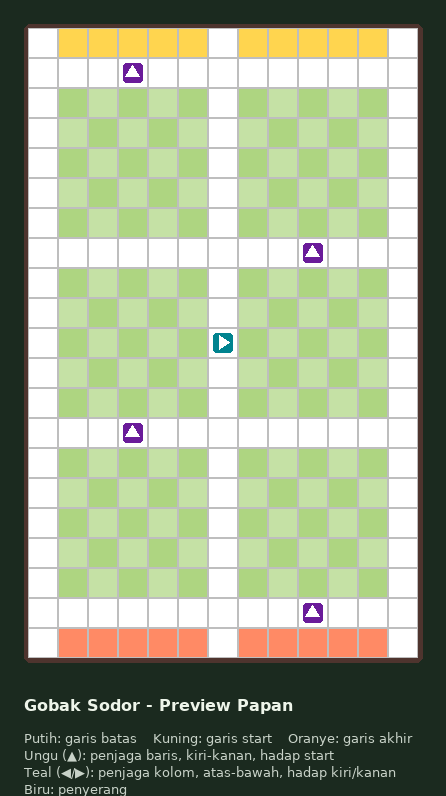
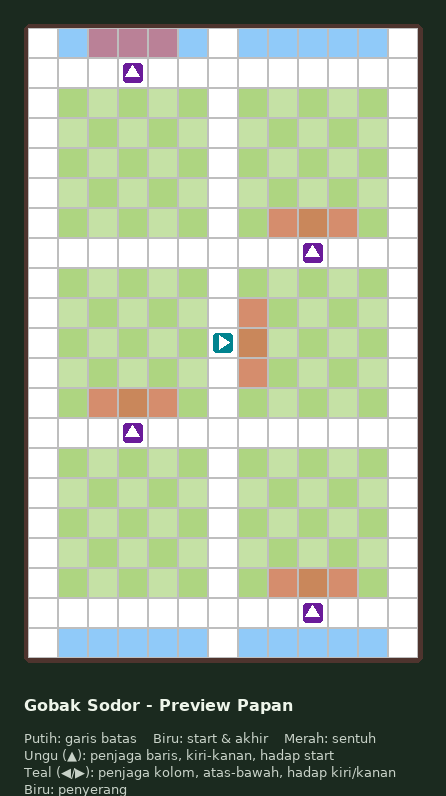
Area sentuh penjaga (merah), tukar peran saat tersentuh, start/finish biru

diff --git a/preview/index.html b/preview/index.html
@@ -62,6 +62,12 @@
     cursor: pointer;
     user-select: none;
   }
+  .cell.threat::before {
+    content: '';
+    position: absolute; inset: 0;
+    background: var(--threat);
+    pointer-events: none;
+  }
   .cell.z-wall, .cell.z-lane { background: var(--white); }
   .cell.z-start { background: var(--start); }
   .cell.z-end { background: var(--end); }
@@ -168,6 +174,7 @@
   const attackers = new Set();
   let selectedId = null;
   let tool = 'attacker';
+  let touchMsg = '';
   const cellEls = [];
 
   function key(x, y) { return x + ',' + y; }
@@ -194,12 +201,45 @@
       inBounds(c.x, c.y) && !guardAt(c.x, c.y) && !attackers.has(key(c.x, c.y)));
   }
 
+  // Area sentuh penjaga: kotak di depan + dua kotak di sebelahnya (sesuai arah hadap).
+  function threatCells(g) {
+    const d = g.type === 'h'
+      ? { dx: 0, dy: -1 }
+      : (g.facing === 'left' ? { dx: -1, dy: 0 } : { dx: 1, dy: 0 });
+    const fx = g.x + d.dx;
+    const fy = g.y + d.dy;
+    const sides = d.dx === 0
+      ? [{ x: fx - 1, y: fy }, { x: fx + 1, y: fy }]
+      : [{ x: fx, y: fy - 1 }, { x: fx, y: fy + 1 }];
+    return [{ x: fx, y: fy }, ...sides].filter(c => inBounds(c.x, c.y));
+  }
+
+  // Jika penyerang berada di area sentuh penjaga, peran keduanya ditukar.
+  function resolveTouches() {
+    for (let round = 0; round < 20; round++) {
+      let swapped = false;
+      for (const g of [...guards]) {
+        const hit = threatCells(g).find(c => attackers.has(key(c.x, c.y)));
+        if (!hit) continue;
+        attackers.delete(key(hit.x, hit.y));
+        attackers.add(key(g.x, g.y));
+        guards = guards.filter(o => o !== g);
+        guards.push({ id: g.id, type: g.type, facing: g.facing, x: hit.x, y: hit.y });
+        touchMsg = `Penyerang di (kolom ${hit.x + 1}, baris ${hit.y + 1}) tersentuh ${g.id}. Peran ditukar.`;
+        swapped = true;
+        break;
+      }
+      if (!swapped) return;
+    }
+  }
+
   function arrowOf(g) {
     if (g.type === 'h') return '▲';                 // menghadap garis start
     return g.facing === 'left' ? '◀' : '▶';
   }
 
   function statusText(sel) {
+    if (touchMsg) return touchMsg;
     if (!sel) return 'Klik penjaga (ungu/teal) untuk memilihnya, lalu klik kotak yang disorot untuk memindahkannya.';
     if (sel.type === 'h') {
       return `Dipilih ${sel.id} (penjaga baris): bergerak kiri–kanan, menghadap garis start (▲). Gunakan ← → atau klik kotak yang disorot.`;
@@ -223,12 +263,15 @@
   function render() {
     const sel = getGuard(selectedId);
     const valid = sel ? movesFor(sel) : [];
+    const threat = new Set();
+    guards.forEach(g => threatCells(g).forEach(c => threat.add(key(c.x, c.y))));
     for (let y = 0; y < ROWS; y++) {
       for (let x = 0; x < COLS; x++) {
         const el = cellEls[y * COLS + x];
         const zone = zoneOf(x, y);
         let cls = 'cell z-' + zone;
         if (zone === 'field' && (x + y) % 2) cls += ' alt';
+        if (threat.has(key(x, y))) cls += ' threat';
         if (valid.some(c => c.x === x && c.y === y)) cls += ' valid';
         if (sel && sel.x === x && sel.y === y) cls += ' selected';
         el.className = cls;
@@ -260,6 +303,7 @@
   }
 
   function onCell(x, y) {
+    touchMsg = '';
     const g = guardAt(x, y);
     if (g) {
       selectedId = selectedId === g.id ? null : g.id;
@@ -271,6 +315,7 @@
     if (sel && movesFor(sel).some(c => c.x === x && c.y === y)) {
       sel.x = x;
       sel.y = y;
+      resolveTouches();
       render();
       showHover(x, y);
       return;
@@ -284,6 +329,7 @@
     }
     if (tool === 'attacker') attackers.add(key(x, y));
     else attackers.delete(key(x, y));
+    resolveTouches();
     render();
     showHover(x, y);
   }
@@ -296,9 +342,11 @@
     const d = moves[e.key];
     if (!d) return;
     e.preventDefault();
+    touchMsg = '';
 
     if (sel.type === 'v' && (e.key === 'ArrowLeft' || e.key === 'ArrowRight')) {
       sel.facing = e.key === 'ArrowLeft' ? 'left' : 'right';
+      resolveTouches();
       render();
       return;
     }
@@ -309,6 +357,7 @@
     if (movesFor(sel).some(c => c.x === tx && c.y === ty)) {
       sel.x = tx;
       sel.y = ty;
+      resolveTouches();
       render();
     }
   });
@@ -324,6 +373,8 @@
     const sel = getGuard(selectedId);
     if (sel && sel.type === 'v') {
       sel.facing = sel.facing === 'left' ? 'right' : 'left';
+      touchMsg = '';
+      resolveTouches();
       render();
     }
   });
